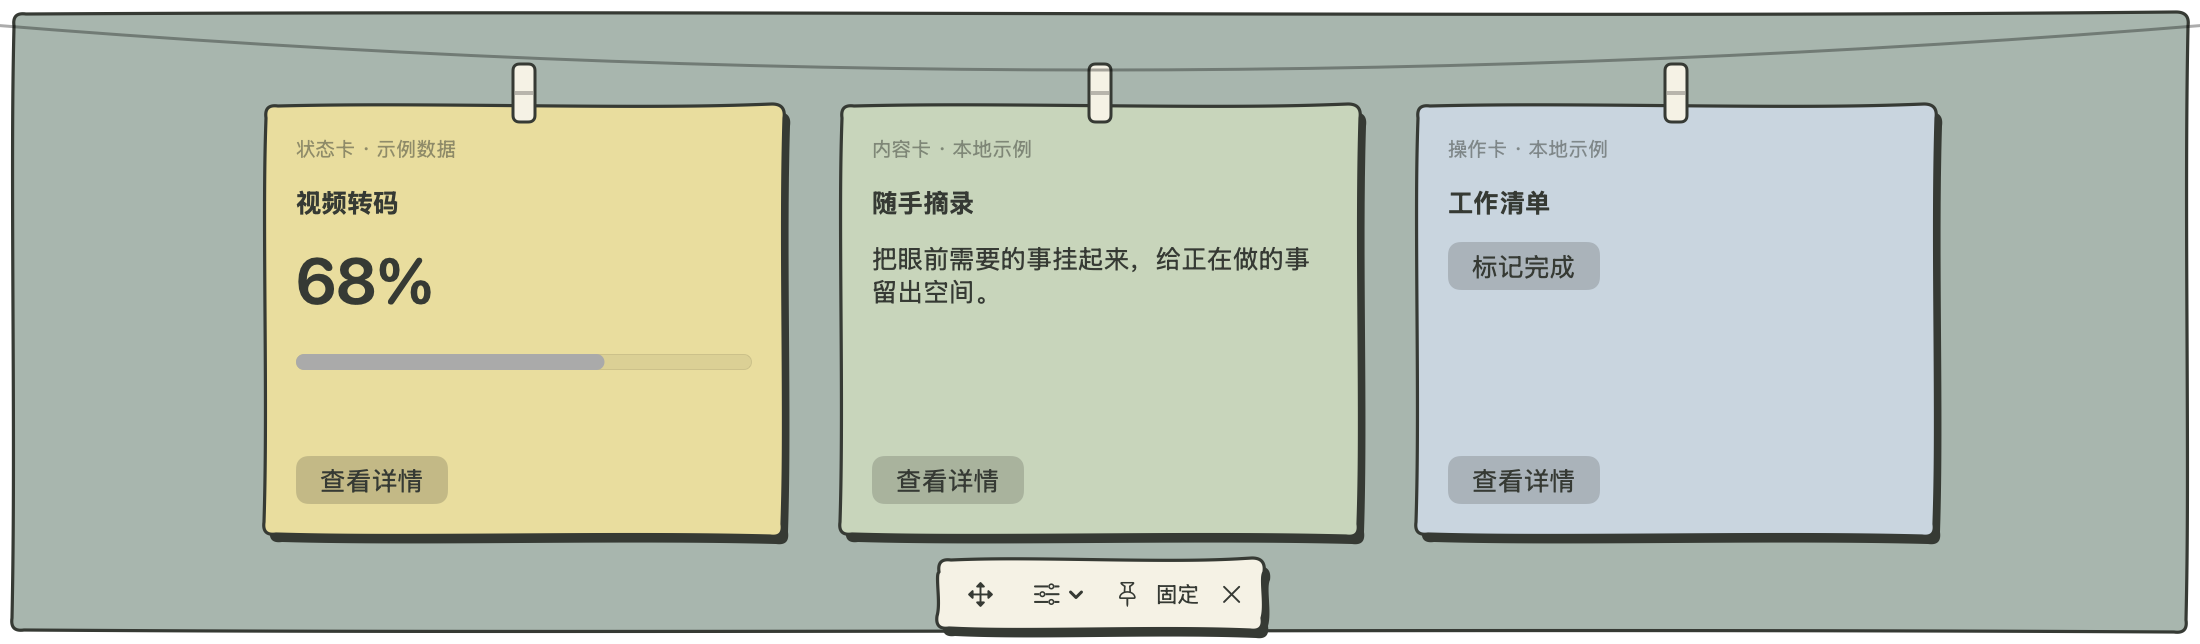
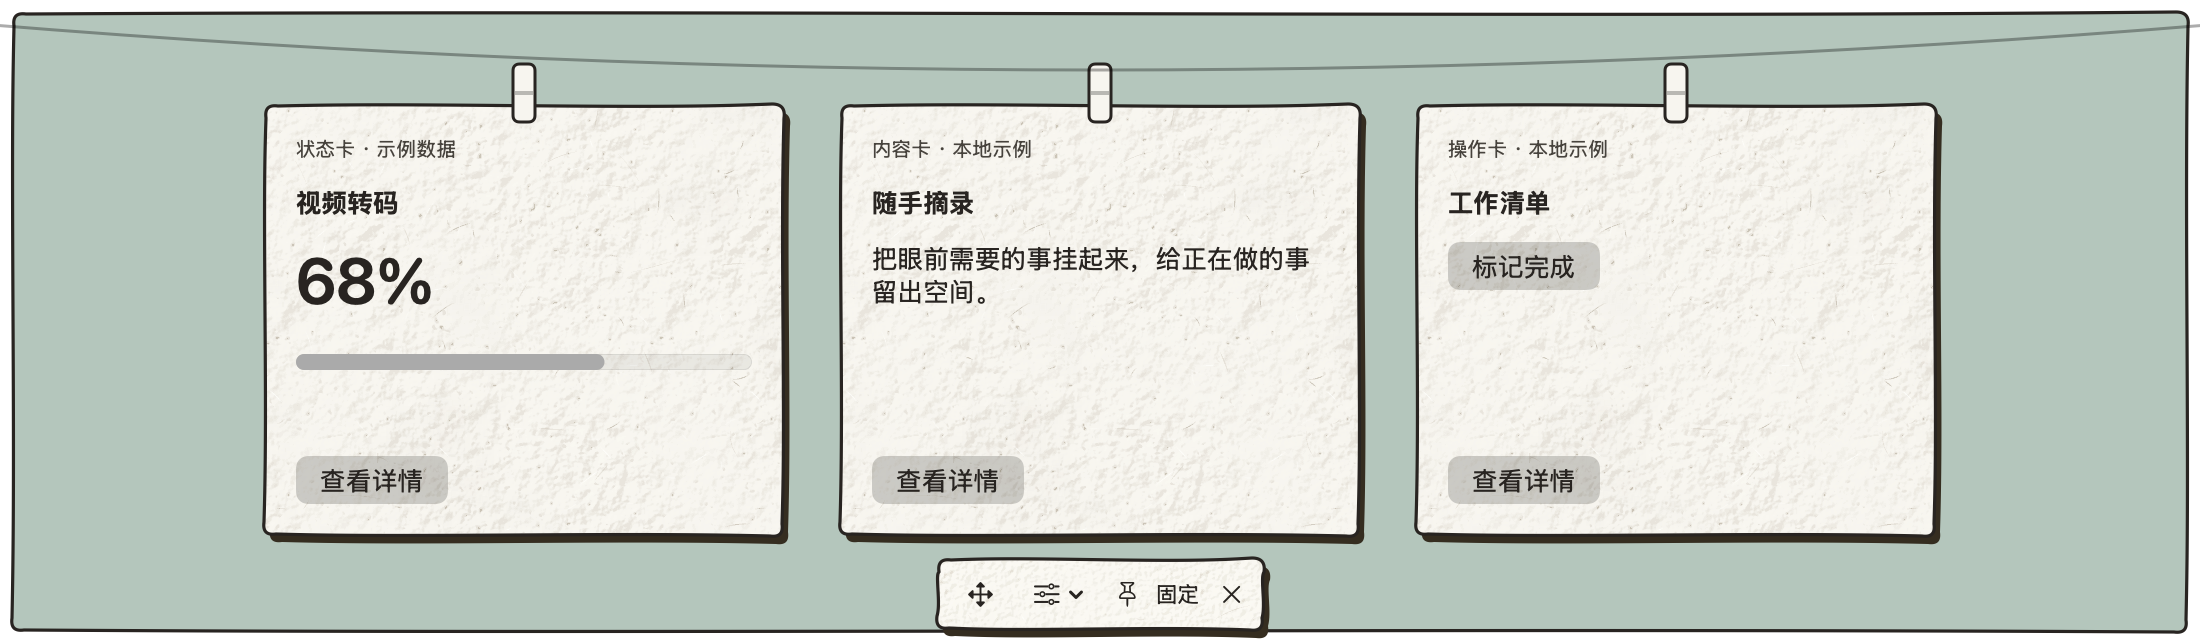
fix(clothesline-ui): add bundled paper textures and pale note colors

diff --git a/assets/swiftui-appkit/Sources/ClotheslineApp/RailStyle.swift b/assets/swiftui-appkit/Sources/ClotheslineApp/RailStyle.swift
@@ -8,14 +8,24 @@ enum RailStyle: String, CaseIterable {
 }
 
 enum RailPaper {
-    static let ink = Color(red: 0.20, green: 0.23, blue: 0.20)
-    static let canvas = Color(red: 0.97, green: 0.95, blue: 0.89)
-    static let sage = Color(red: 0.62, green: 0.72, blue: 0.68)
-    static func color(_ index: Int) -> Color {
-        let colors = [Color(red: 0.96, green: 0.86, blue: 0.58),
-                      Color(red: 0.76, green: 0.84, blue: 0.72),
-                      Color(red: 0.75, green: 0.84, blue: 0.88),
-                      Color(red: 0.93, green: 0.75, blue: 0.67)]
+    // Looseleaf Notebook palette: https://kevintngo.github.io/looseleaf/#/foundations/theming
+    static let ink = Color(red: 42 / 255.0, green: 36 / 255.0, blue: 32 / 255.0) // #2A2420
+    static let inkMuted = Color(red: 74 / 255.0, green: 67 / 255.0, blue: 60 / 255.0) // --ll-ink-muted #4A433C
+    static let sheet = Color(red: 248 / 255.0, green: 245 / 255.0, blue: 238 / 255.0) // --ll-paper #F8F5EE
+    static let canvas = sheet
+    static let slip = Color(red: 251 / 255.0, green: 248 / 255.0, blue: 241 / 255.0) // --ll-slip #FBF8F1
+    static let backdrop = Color(red: 168 / 255.0, green: 200 / 255.0, blue: 187 / 255.0) // --ll-desk #A8C8BB
+    static let shadow = Color(red: 58 / 255.0, green: 44 / 255.0, blue: 30 / 255.0) // --ll-shade #3A2C1E
+    static let marker = Color(red: 223 / 255.0, green: 107 / 255.0, blue: 60 / 255.0) // --ll-marker #DF6B3C
+    static let sage = backdrop // Compatibility alias for existing custom fills.
+    static func color(_ index: Int?) -> Color {
+        guard let index else { return sheet }
+        // Explicit opt-in stock; yellow stays official, green/blue/pink use lighter 200 tints.
+        // Refactoring UI palette: official base, --cap 0 --strength 0; preserve hue.
+        let colors = [Color(red: 247 / 255.0, green: 227 / 255.0, blue: 138 / 255.0), // #F7E38A
+                      Color(red: 236 / 255.0, green: 245 / 255.0, blue: 221 / 255.0), // #ECF5DD
+                      Color(red: 226 / 255.0, green: 238 / 255.0, blue: 248 / 255.0), // #E2EEF8
+                      Color(red: 251 / 255.0, green: 225 / 255.0, blue: 222 / 255.0)] // #FBE1DE
         return colors[max(0, min(index, colors.count - 1))]
     }
 }
@@ -38,7 +48,11 @@ struct RailAppearance: ViewModifier {
         content
             .background {
                 if windowBackground {
-                    state.style == .looseleaf ? RailPaper.canvas : Color(nsColor: .windowBackgroundColor)
+                    if state.style == .looseleaf {
+                        RailPaper.canvas.overlay { RailPaperTexture() }
+                    } else {
+                        Color(nsColor: .windowBackgroundColor)
+                    }
                 }
             }
             .environment(\.railStyle, state.style)
@@ -70,16 +84,18 @@ struct RailPaperShape: Shape {
 /// Apply after sizing/padding. Background changes do not rebuild interactive content.
 struct RailPaperSurface: ViewModifier {
     @Environment(\.railStyle) private var style
-    var colorIndex: Int = 0
+    var colorIndex: Int? = nil
     var fill: Color? = nil
     var radius: CGFloat = 8
     var raised = true
+    var stock: RailPaperStock = .paper
     func body(content: Content) -> some View {
         content.background {
             if style == .looseleaf {
                 ZStack {
-                    if raised { RailPaperShape().fill(RailPaper.ink).offset(x: 3, y: 4) }
+                    if raised { RailPaperShape().fill(RailPaper.shadow).offset(x: 3, y: 4) }
                     RailPaperShape().fill(fill ?? RailPaper.color(colorIndex))
+                    RailPaperTexture(stock: stock).clipShape(RailPaperShape())
                     RailPaperShape().stroke(RailPaper.ink, style: StrokeStyle(lineWidth: 1.6, lineCap: .round, lineJoin: .round))
                 }
             } else {

diff --git a/assets/swiftui-appkit/Sources/ClotheslineApp/RailPaperTexture.swift b/assets/swiftui-appkit/Sources/ClotheslineApp/RailPaperTexture.swift
@@ -1,0 +1,53 @@
+import AppKit
+import SwiftUI
+
+/// Original Looseleaf PNG layers, tiled at their published CSS sizes in points.
+/// Decode once. Fixed origins keep texture stable during interaction and resizing.
+enum RailPaperStock { case paper, slip }
+
+struct RailPaperTexture: View {
+    var stock: RailPaperStock = .paper
+
+    private static let resources: Bundle = {
+        // build_app.py copies the SwiftPM bundle into the installed app's Resources.
+        if let url = Bundle.main.url(forResource: "ClotheslineApp_ClotheslineApp", withExtension: "bundle"),
+           let bundle = Bundle(url: url) { return bundle }
+        return Bundle.module
+    }()
+
+    struct Tile {
+        let image: CGImage
+        let size: CGFloat
+    }
+
+    static let tiles: [String: Tile] = {
+        var result: [String: Tile] = [:]
+        for (name, size) in [("cloud", 720.0), ("relief", 192.0), ("slip", 128.0), ("fibre", 240.0)] {
+            guard let url = resources.url(forResource: name, withExtension: "png", subdirectory: "Paper"),
+                  let image = NSImage(contentsOf: url)?.cgImage(forProposedRect: nil, context: nil, hints: nil) else {
+                assertionFailure("Missing paper texture: \(name)")
+                continue
+            }
+            result[name] = Tile(image: image, size: size)
+        }
+        return result
+    }()
+
+    var body: some View {
+        Canvas { context, size in
+            // CSS background-image is front-to-back; Canvas draws back-to-front.
+            for name in ["cloud", stock == .paper ? "relief" : "slip", "fibre"] {
+                guard let tile = Self.tiles[name] else { continue }
+                let image = Image(decorative: tile.image, scale: 1)
+                for y in stride(from: 0.0, to: size.height, by: tile.size) {
+                    for x in stride(from: 0.0, to: size.width, by: tile.size) {
+                        context.draw(image, in: CGRect(x: x, y: y, width: tile.size, height: tile.size))
+                    }
+                }
+            }
+        }
+        .clipped()
+        .allowsHitTesting(false)
+        .accessibilityHidden(true)
+    }
+}

diff --git a/assets/swiftui-appkit/Sources/ClotheslineApp/ClotheslineView.swift b/assets/swiftui-appkit/Sources/ClotheslineApp/ClotheslineView.swift
@@ -5,7 +5,7 @@ struct ClotheslineView<Item: Identifiable, Card: View>: View where Item.ID == UU
     @ObservedObject var state: RailState
     let items: [Item]
     let title: (Item) -> String
-    var paperColor: (Item) -> Int = { _ in 0 }
+    var paperColor: (Item) -> Int? = { _ in nil }
     @ViewBuilder var card: (Item, Bool) -> Card
     private var ordered: [Item] { state.ordered(items) }
 
@@ -97,7 +97,7 @@ struct ClotheslineView<Item: Identifiable, Card: View>: View where Item.ID == UU
         .padding(.horizontal, 12).padding(.vertical, 8)
         .background {
             if state.style == .looseleaf {
-                Color.clear.modifier(RailPaperSurface(fill: RailPaper.canvas))
+                Color.clear.modifier(RailPaperSurface(fill: RailPaper.slip, stock: .slip))
             } else { Capsule().fill(.regularMaterial) }
         }
         .railInteractive()
@@ -109,7 +109,7 @@ struct HangingCard<Content: View>: View {
     let id: UUID
     let title: String
     let shift: (Int) -> Void
-    var colorIndex: Int = 0
+    var colorIndex: Int? = nil
     @ViewBuilder var content: () -> Content
     @State private var hovered = false
     @State private var dragOffset = CGSize.zero

diff --git a/assets/swiftui-appkit/Sources/ClotheslineApp/Main.swift b/assets/swiftui-appkit/Sources/ClotheslineApp/Main.swift
@@ -12,7 +12,7 @@ final class DemoAppDelegate: NSObject, NSApplicationDelegate {
             : .standard
         let state = RailState(defaults: defaults, defaultStyle: DemoConfig.defaultStyle)
         rail = RailWindowController(state: state, title: DemoConfig.appName, symbol: DemoConfig.menuSymbol) {
-            ClotheslineView(state: state, items: DemoItem.samples, title: { $0.title }, paperColor: { Int($0.id.uuid.15) - 1 }) { item, compact in
+            ClotheslineView(state: state, items: DemoItem.samples, title: { $0.title }) { item, compact in
                 DemoCard(item: item, compact: compact) { [weak self] in
                     self?.rail?.showDetail(title: item.title) {
                         VStack(alignment: .leading, spacing: 20) {

diff --git a/assets/swiftui-appkit/Sources/ClotheslineApp/PreviewRenderer.swift b/assets/swiftui-appkit/Sources/ClotheslineApp/PreviewRenderer.swift
@@ -19,7 +19,7 @@ enum PreviewRenderer {
                         state.compact = compact
                         let size = edge.vertical ? CGSize(width: state.cardSize.width + 72, height: 800)
                             : CGSize(width: 1100, height: state.cardSize.height + 102)
-                        let root = ClotheslineView(state: state, items: DemoItem.samples, title: { $0.title }, paperColor: { Int($0.id.uuid.15) - 1 }) {
+                        let root = ClotheslineView(state: state, items: DemoItem.samples, title: { $0.title }) {
                             DemoCard(item: $0, compact: $1, open: {})
                         }.environment(\.colorScheme, dark ? .dark : .light)
                         let host = NSHostingView(rootView: root)

diff --git a/assets/swiftui-appkit/Tests/ClotheslineAppTests/RailStyleTests.swift b/assets/swiftui-appkit/Tests/ClotheslineAppTests/RailStyleTests.swift
@@ -2,6 +2,15 @@ import XCTest
 @testable import ClotheslineApp
 
 final class RailStyleTests: XCTestCase {
+    func testBundledPaperTexturesDecodeAtOriginalResolution() {
+        let expected = ["relief": 384, "slip": 256, "fibre": 480, "cloud": 240]
+        XCTAssertEqual(Set(RailPaperTexture.tiles.keys), Set(expected.keys))
+        for (name, pixels) in expected {
+            XCTAssertEqual(RailPaperTexture.tiles[name]?.image.width, pixels, name)
+            XCTAssertEqual(RailPaperTexture.tiles[name]?.image.height, pixels, name)
+        }
+    }
+
     @MainActor
     func testDefaultsAndUnknownStyleFallback() {
         let suite = "clothesline.style.\(UUID())"

diff --git a/assets/swiftui-appkit/Sources/ClotheslineApp/Demo.swift b/assets/swiftui-appkit/Sources/ClotheslineApp/Demo.swift
@@ -25,13 +25,15 @@ struct DemoItem: Identifiable {
 }
 
 struct DemoCard: View {
+    @Environment(\.railStyle) private var style
     let item: DemoItem
     let compact: Bool
     var open: () -> Void
     @State private var completed = false
     var body: some View {
         VStack(alignment: .leading, spacing: compact ? 8 : 12) {
-            Text(item.subtitle).font(.caption).foregroundStyle(.secondary)
+            Text(item.subtitle).font(.caption)
+                .foregroundStyle(style == .looseleaf ? RailPaper.inkMuted : Color.secondary)
             Text(item.title).font(.headline)
             switch item.kind {
             case .status:

diff --git a/assets/swiftui-appkit/Package.swift b/assets/swiftui-appkit/Package.swift
@@ -5,7 +5,7 @@ let package = Package(
     platforms: [.macOS(.v14)],
     products: [.executable(name: "ClotheslineApp", targets: ["ClotheslineApp"])],
     targets: [
-        .executableTarget(name: "ClotheslineApp"),
+        .executableTarget(name: "ClotheslineApp", resources: [.copy("Resources/Paper")]),
         .testTarget(name: "ClotheslineAppTests", dependencies: ["ClotheslineApp"])
     ]
 )

diff --git a/assets/swiftui-appkit/Sources/ClotheslineApp/RailPresentation.swift b/assets/swiftui-appkit/Sources/ClotheslineApp/RailPresentation.swift
@@ -19,7 +19,7 @@ struct RailBackdrop: View {
     var body: some View {
         Group {
             if style == .looseleaf {
-                RailPaperShape().fill(RailPaper.sage)
+                RailPaperShape().fill(RailPaper.backdrop)
                     .overlay(RailPaperShape().stroke(RailPaper.ink, lineWidth: 1.6))
             } else { systemBackdrop }
         }

diff --git a/assets/swiftui-appkit/scripts/build_app.py b/assets/swiftui-appkit/scripts/build_app.py
@@ -21,6 +21,8 @@ macos.mkdir(parents=True, exist_ok=True)
 shutil.copy2(Path(bin_path) / 'ClotheslineApp', macos / 'ClotheslineApp')
 resources = app / 'Contents' / 'Resources'
 resources.mkdir(parents=True, exist_ok=True)
+for bundle in Path(bin_path).glob('*.bundle'):
+    shutil.copytree(bundle, resources / bundle.name, dirs_exist_ok=True)
 for license_name in ['LICENSE', 'THIRD_PARTY_LICENSES.txt']:
     license_file = root / license_name
     if license_file.exists(): shutil.copy2(license_file, resources / license_file.name)

diff --git a/references/styles.md b/references/styles.md
@@ -1,6 +1,6 @@
 # 可选界面风格
 
-模板提供 `system`（系统材质）和 `looseleaf`（手绘纸张）。手绘样式从灵感晾台 1.4.0 的原生 SwiftUI 实现提取，视觉参考 Looseleaf。只依赖本模板，不需要来源应用的目录、字体、图片、React 或 shadcn/ui。
+模板提供 `system`（系统材质）和 `looseleaf`（手绘纸张）。手绘样式从灵感晾台 1.4.0 的原生 SwiftUI 实现提取，视觉参考 Looseleaf。模板自带纸纹图片及 MIT 授权，不需要来源应用目录、额外下载、字体、React 或 shadcn/ui。
 
 ![模板手绘纸张预览](../docs/screenshots/looseleaf.png)
 
@@ -13,17 +13,56 @@ python3 '<skill-dir>/scripts/scaffold.py' '/absolute/path/NewApp' \
 
 `--style` 只设定新项目的初始风格。运行时可通过菜单栏「界面风格」，或挂卡工具栏「位置与显示」中的「界面风格」切换。`RailState.style` 将选择保存到调用方 UserDefaults 的 `rail.style`，重启恢复。没有已存选项或值无法识别时使用 `defaultStyle`，默认值为 `.system`。不修改业务数据、挂卡顺序、位置、尺寸或固定状态。
 
-已有工程接入时，将 `RailStyle.swift` 与其余通用源文件一并复制。直接创建状态：
+已有工程接入时，将 `RailStyle.swift`、`RailPaperTexture.swift`、`Resources/Paper` 与其余通用源文件一并复制；同时保留 Package.swift 的资源声明与打包脚本的资源 bundle 复制逻辑。直接创建状态：
 
 ```swift
 let state = RailState(defaults: .standard, defaultStyle: .looseleaf)
 ```
 
+## 官方 Notebook 配色与用途
+
+配色依据 [Looseleaf 官方 Theming 页面](https://kevintngo.github.io/looseleaf/#/foundations/theming) 的 Notebook 默认主题，已于 2026-11-07 核对页面加载的主题配置与 CSS。颜色以配置值为准，不从叠加纹理、阴影后的截图重新取样。SwiftUI 模板保留原生组件及既有轮廓，映射颜色用途并使用自带的官方纸纹 PNG，不引入网页运行时或字体。
+
+| 官方用途 | 官方变量 | 色值 | 模板映射 |
+| --- | --- | --- | --- |
+| 桌面背景 | `--ll-desk` | `#A8C8BB` | `RailPaper.backdrop`，晾台大面积背景 |
+| 普通纸面 | `--ll-paper` | `#F8F5EE` | `RailPaper.sheet`，默认便签；`canvas` 为同色别名，用于窗口与夹子 |
+| 纸面次级填充 | `--ll-paper-shade` | `#ECE6DA` | 按业务需要使用，不作为默认便签底色 |
+| 菜单与浮层纸面 | `--ll-slip` | `#FBF8F1` | `RailPaper.slip`，自定义悬浮工具栏；原生菜单仍由 macOS 绘制 |
+| 索引卡纸 | `--ll-card` | `#FBF6E9` | 仅在业务明确采用索引卡时使用 |
+| 牛皮纸 | `--ll-kraft` | `#DCC8A3` | 仅在业务明确采用牛皮纸时使用 |
+| 正文墨色 | `--ll-ink` | `#2A2420` | `RailPaper.ink`，主文字与既有手绘轮廓 |
+| 次级文字 | `--ll-ink-muted` | `#4A433C` | `RailPaper.inkMuted`，示例卡片副标题 |
+| 阴影色 | `--ll-shade` | `#3A2C1E` | `RailPaper.shadow`，保留模板偏移阴影形状 |
+| 主操作强调色 | `--ll-marker` | `#DF6B3C` | `RailPaper.marker`，显式自定义主按钮纸面 |
+
+默认便签使用普通纸面 `--ll-paper`，而不是 `--ll-card`：官网的 `--ll-card` 指索引卡纸张，组件 Card 的语义背景实际映射到 `--ll-paper`。`--ll-shade` 的原始配置为 RGB 三元组 `58 44 30`，上表转换为等价十六进制。
+
+遵循 Refactoring UI 的既有设计系统优先原则及 §2.4、§5.6.1：将桌面、纸面、墨色、阴影与操作强调色分开，避免混用。此前试调的浅灰绿 `#DDE8E3` 与截图取样 `#F7F2EA` 不再作为本技能默认值。`sage` 保留为 `backdrop` 的兼容别名；新增主按钮使用 `marker`，不要将桌面色当作官方主操作强调色。
+
+本次配色检查（2026-11-07）：
+
+| 检查项 | 位置 | 规则 | 原状 | 调整 | 验证 |
+| --- | --- | --- | --- | --- | --- |
+| 配色来源与层级 | 手绘晾台与卡片 | 既有设计系统优先、§2.4、§5.6.1 | 使用近似纸色、自拟背景及偏绿墨色，阴影复用墨色 | 按 Notebook 配置分配独立用途 | 检查标准横向与迷你竖向预览 |
+
+按 sRGB 公式计算，主墨色 `#2A2420` 与普通纸面 `#F8F5EE` 的对比度为 14.06:1；与桌面背景 `#A8C8BB` 的对比度为 8.49:1。次级文字 `#4A433C` 与纸面的对比度为 8.93:1。这些数值仅验证所列文字组合，不代表所有业务卡片文字已通过对比度检查。
+
+### 浅彩便签覆盖
+
+按用户 2026-11-07 的偏好，绿、蓝、粉红纸面从官方色生成更浅的 200 阶，避免大面积彩色填充过重。保持原色相和 HSL 饱和度，提升明度；生成参数为 `generate_palette.py --base '<官方色>' --cap 0 --strength 0`，取输出的 200 阶。以下是本技能的定制覆盖，不是官方默认值；米白、桌面、文字、阴影及纸纹透明度保持原配置。
+
+| 纸色 | 官方原色 | 本技能浅色 |
+| --- | --- | --- |
+| 绿色 | `#CFE6A8` | `#ECF5DD` |
+| 蓝色 | `#BCD8F0` | `#E2EEF8` |
+| 粉红色 | `#F6B8B0` | `#FBE1DE` |
+
 ## 纸面与内容
 
 - `RailPaperShape` 使用固定曲线生成略不规则的轮廓。不要在 `body` 或绘制中加入随机数，否则输入、布局或状态刷新时边框会变化。
-- `RailPaperSurface` 提供 1.6 点深色描边、向右 3 点／向下 4 点的实色偏移阴影，`colorIndex` 的 0～3 对应黄、绿、蓝、粉，越界索引会限制在有效范围。
-- `ClotheslineView` 已注入样式环境；卡片、工具栏、背景与夹子响应风格切换。可通过 `paperColor` 闭包为业务对象选择颜色：
+- `RailPaperSurface` 提供 1.6 点深色描边、向右 3 点／向下 4 点的实色偏移阴影，默认 `colorIndex: nil` 使用暖米白纸面。保留 0～3 对应黄 `#F7E38A`、浅绿 `#ECF5DD`、浅蓝 `#E2EEF8`、浅粉 `#FBE1DE`，供已有产品或用户明确要求彩色便签时使用；显式索引越界会限制在有效范围。
+- `ClotheslineView` 已注入样式环境；卡片、工具栏、背景与夹子响应风格切换。默认省略 `paperColor` 即为统一暖米白便签。仅在明确需要彩色便签时，通过该闭包选择颜色：
 
 ```swift
 ClotheslineView(state: state, items: items, title: { $0.title },
@@ -32,7 +71,20 @@ ClotheslineView(state: state, items: items, title: { $0.title },
 }
 ```
 
-`MyCard` 负责内容及交互，外层 `HangingCard` 负责纸面。不要再给内容铺满不透明背景，否则会遮住纸张颜色。`paperColor` 省略时为黄色；系统材质忽略此索引。不要根据排序下标选颜色，避免重新排序后颜色发生变化。
+`MyCard` 负责内容及交互，外层 `HangingCard` 负责纸面。不要再给内容铺满不透明背景，否则会遮住纸张颜色。`paperColor` 省略或返回 `nil` 时为暖米白色；系统材质忽略此索引。不要根据排序下标选颜色，避免重新排序后颜色发生变化。
+
+## 纸张纹理
+
+纯色填充不能替代纸张材质。`RailPaperTexture` 使用 Looseleaf 的原始透明 PNG，在底色上按 cloud → relief（或 slip）→ fibre 顺序绘制；这对应官网 CSS 从前往后的 fibre → relief/slip → cloud。保留原始透明度，不额外乘暗色或把纸纹盖在文字上。纸面背景与正文的层次按 Refactoring UI §7.2 保持独立。
+
+- 普通便签：cloud 以 720 × 720 点平铺，relief 为 192 × 192 点，fibre 为 240 × 240 点。
+- 悬浮工具栏：用 128 × 128 点的 slip 替换 relief，保持细纸纹；通过 `RailPaperSurface(stock: .slip)` 指定。
+- 纹理裁切到 `RailPaperShape`，固定平铺原点，解码结果缓存；不随布局刷新重新生成随机噪点，不把整张纹理拉伸到卡片尺寸。
+- 纹理位于内容后方，关闭命中测试及辅助功能，避免阻挡点击或增加朗读项。系统材质分支不绘制纸纹。
+- SwiftPM 声明 `.copy("Resources/Paper")`；打包时将资源 bundle 放入 `.app/Contents/Resources`。加载优先查找安装包内资源，再回退到开发环境的 `Bundle.module`。接入其他 target 时调整 bundle 名称与资源入口。
+- 保留 `THIRD_PARTY_LICENSES.txt` 中的 Looseleaf MIT 授权。纹理来源与固定版本见 [provenance.md](provenance.md)。
+
+检查真实组件在标准横向及迷你竖向下的纸纹、接缝、文字清晰度和边缘裁切；另从打包应用生成预览，确认脱离 `.build` 后资源仍能加载。纯色对比度数值不等于所有纹理像素组合的对比度结论。
 
 ## 独立窗口与外观边界
 
@@ -45,7 +97,7 @@ EditorView(model: model)
 
 该 modifier 更新环境与背景，不替换内容根节点，也不使用 `.id(style)`。这样风格切换不会因重建根节点而清空 `@State` 或编辑器内容。手绘主题显式采用浅色 SwiftUI 环境，系统材质仍跟随系统。系统标题栏与原生菜单保持 macOS 外观；嵌入的自定义 AppKit 编辑器需要宿主同时更新文字与背景，不能假定 SwiftUI 环境会自动修改其所有属性。
 
-需要给业务按钮添加纸面时，在按钮标签的 padding 后加 `.modifier(RailPaperSurface(fill: RailPaper.sage))`，配合 `.buttonStyle(.plain)`。点击、禁用、焦点和辅助功能语义仍由实际 Button 提供。
+需要给业务主按钮添加强调纸面时，在按钮标签的 padding 后加 `.modifier(RailPaperSurface(fill: RailPaper.marker))`，配合 `.buttonStyle(.plain)`。点击、禁用、焦点和辅助功能语义仍由实际 Button 提供。
 
 ## 验证
 

diff --git a/references/provenance.md b/references/provenance.md
@@ -41,7 +41,7 @@
 
 ## 手绘纸张风格复用（2026-11-06）
 
-从用户的 IdeaLine 1.4.0 提取固定曲线纸面、纯色配色、深色描边和偏移阴影，整理为独立 `RailStyle.swift`。视觉参考 Looseleaf；未复制其源代码、字体、图片或 React 组件。模板继续使用原有 RailState、四边布局、菜单和业务内容接口；保留系统材质为默认风格。
+从用户的 IdeaLine 1.4.0 提取固定曲线纸面、纯色配色、深色描边和偏移阴影，整理为独立 `RailStyle.swift`。当时仅视觉参考 Looseleaf，未复制其源代码、字体、图片或 React 组件；2026-11-07 的纸纹资源变更见下文。模板继续使用原有 RailState、四边布局、菜单和业务内容接口；保留系统材质为默认风格。
 
 本次本机验证：
 
@@ -51,3 +51,11 @@
 - 技能 frontmatter 与引用检查通过，脚手架默认选项及非法风格参数检查通过。
 
 本次未手动回放新模板的菜单切换、编辑中切换、拖动和多屏行为。来源产品的实测不能代替模板接入后的完整交互验证。
+
+## 官方纸纹资源（2026-11-07）
+
+从 [Looseleaf 固定提交 4bdb647](https://github.com/kevintngo/looseleaf/blob/4bdb647940e2fefb3cebb394f3bad25c766a27d2/src/lib/ink/textures-paper.generated.ts) 解码原始 relief、slip、fibre、cloud PNG，原始字节未做修改，总计 71,887 字节。依据该版本 `textures.ts` 的顺序与平铺尺寸，用 SwiftUI Canvas 实现纸面层叠。资源随模板和打包应用分发，保留 Looseleaf contributors 的完整 MIT 授权；没有引入 React 或网页运行时。
+
+之前“不包含 Looseleaf 图片或素材”的说明适用于 2026-11-06 版本；当前模板已包含上述四张纹理，授权说明与接入文档已同步更新。
+
+本次验证：15 项 XCTest 通过（含四张纹理的资源解码和原始像素尺寸检查），Release 构建与签名校验通过。临时移开生成工程的 `.build` 后，打包应用仍独立生成 32 张预览；已检查标准横向及迷你竖向的纸纹与文字。未重新回放菜单、拖动或多屏交互。
